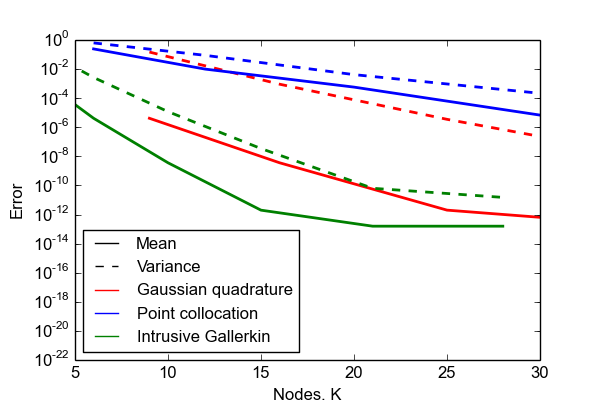
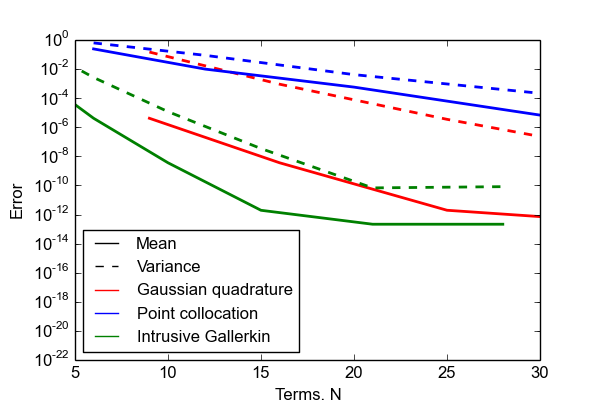
changed style to lstlistings

Changed region(s): [[0.51, 0.45, 0.9, 0.57], [0.45, 0.96, 0.57, 1.0], [0.45, 0.51, 0.51, 0.54]]

diff --git a/lecture4.tex b/lecture4.tex
@@ -43,10 +43,12 @@
  \end{frame}
 }
 
-\lstset{
-escapeinside=||
-}
 
+ \lstset{
+escapeinside={||},
+basicstyle=\ttfamily\footnotesize, 
+columns=fixed
+}
 
 \newenvironment{chaospy}[1]
 {\color{gray!30!black}
@@ -70,7 +72,7 @@ escapeinside=||
 \graphicspath{{./figures/}}
 
 
-\title{Polynomial chaos expansions part 3: Advanced topics - Dependent variables}
+\title{Polynomial chaos expansions part 4: Dependent variables}
 \author{Jonathan Feinberg and Simen Tennøe}
 
 
@@ -152,10 +154,8 @@ def u(x,a, I):
 C = [[2,1],[1,2]]
 mu = [0.5,0.5]
 |\pause|
-R = cp.J(cp.Normal(), cp.Normal())
-|\pause|
-L =  np.linalg.cholesky(C)      # C = np.dot(L.T, L)
-|\pause|
+R = cp.J(cp.Normal(), cp.Normal())|\pause|
+L =  np.linalg.cholesky(C)      # C = np.dot(L.T, L) |\pause|
 def T(r):
     return np.dot(L,r) + mu
 |\pause|
@@ -163,9 +163,9 @@ P = cp.orth_ttr(M, R)|\pause|
 nodes0, weights = cp.generate_quadrature(M+1, R, rule="G")|\pause|
 nodes1 = T(nodes0)
 |\pause|
-samples_u = [u(x, *node) for node in nodes1.T]
-|\pause|
-U_analytic = cp.fit_quadrature(P, nodes0, weights, samples_u)
+samples_u = [u(x, *node) for node in nodes1.T]|\pause|
+U_analytic = cp.fit_quadrature(P, nodes0,\
+			      weights, samples_u)
 \end{lstlisting}
 \end{chaospy}
 

diff --git a/lecture2.tex b/lecture2.tex
@@ -45,8 +45,10 @@
  \end{frame}
 }
 
-\lstset{
-escapeinside=||
+ \lstset{
+escapeinside={||},
+basicstyle=\ttfamily\footnotesize, 
+columns=fixed
 }
 
 
@@ -295,15 +297,17 @@ print weights
 % high: fill in code (using L as input)
 % skip "rule="
 \begin{lstlisting}[language=python]
-dist = cp.J(cp.Uniform(), cp.Uniform())  # joint multivariate dist
-nodes, weights = cp.generate_quadrature((1,2), dist, rule="G")
+# joint multivariate dist
+dist = cp.J(cp.Uniform(), cp.Uniform()) 
+nodes, weights = cp.generate_quadrature((1,2), \
+			    dist, rule="G")
 |\pause|
 print nodes
-[[0.2113248 0.2113248 0.2113248 0.7886751 0.7886751 0.7886751]
- [0.1127016 0.5       0.8872983 0.1127016 0.5       0.8872983]]
+[[0.211324 0.211324 0.211324 0.788675 0.788675 0.788675]
+ [0.112701 0.5      0.887298 0.112701 0.5      0.887298]]
 
 print weights
- [0.1388888 0.2222222 0.1388889 0.1388889 0.2222222 0.1388889]
+ [0.138888 0.222222 0.138889 0.138889 0.222222 0.138889]
 \end{lstlisting}
 
 \end{chaospy}

diff --git a/figures/gallerkin.py b/figures/gallerkin.py
@@ -148,7 +148,7 @@ for n in range(1,N):
 pl.plot(K,error,"g-",linewidth=2)
 pl.plot(K, var,"g--",linewidth=2)
 
-pl.xlabel("Nodes, K")
+pl.xlabel("Terms, N")
 pl.ylabel("Error")
 pl.yscale('log')
 #pl.title("Error in expectation value and variance ")

diff --git a/lecture1.tex b/lecture1.tex
@@ -63,7 +63,9 @@
 
 
  \lstset{
-escapeinside=||
+escapeinside={||},
+basicstyle=\ttfamily\footnotesize, 
+columns=fixed
 }
 
 
